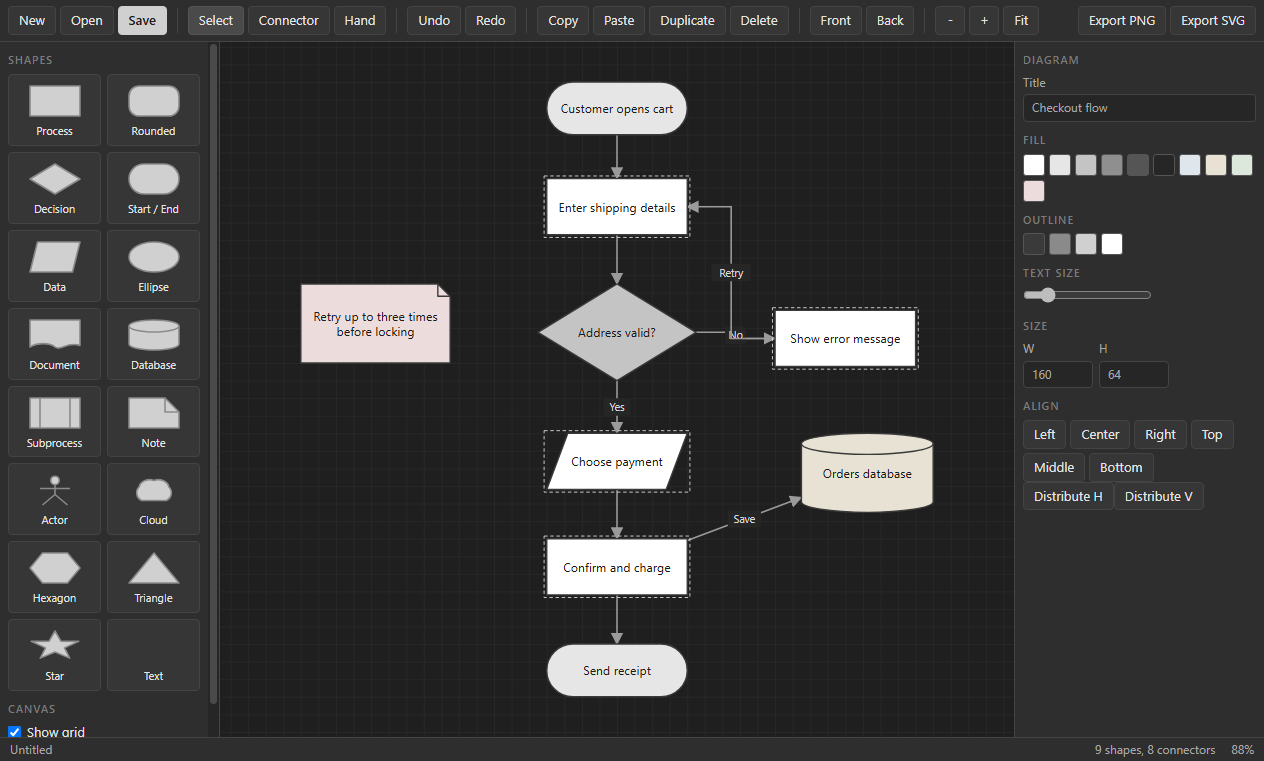
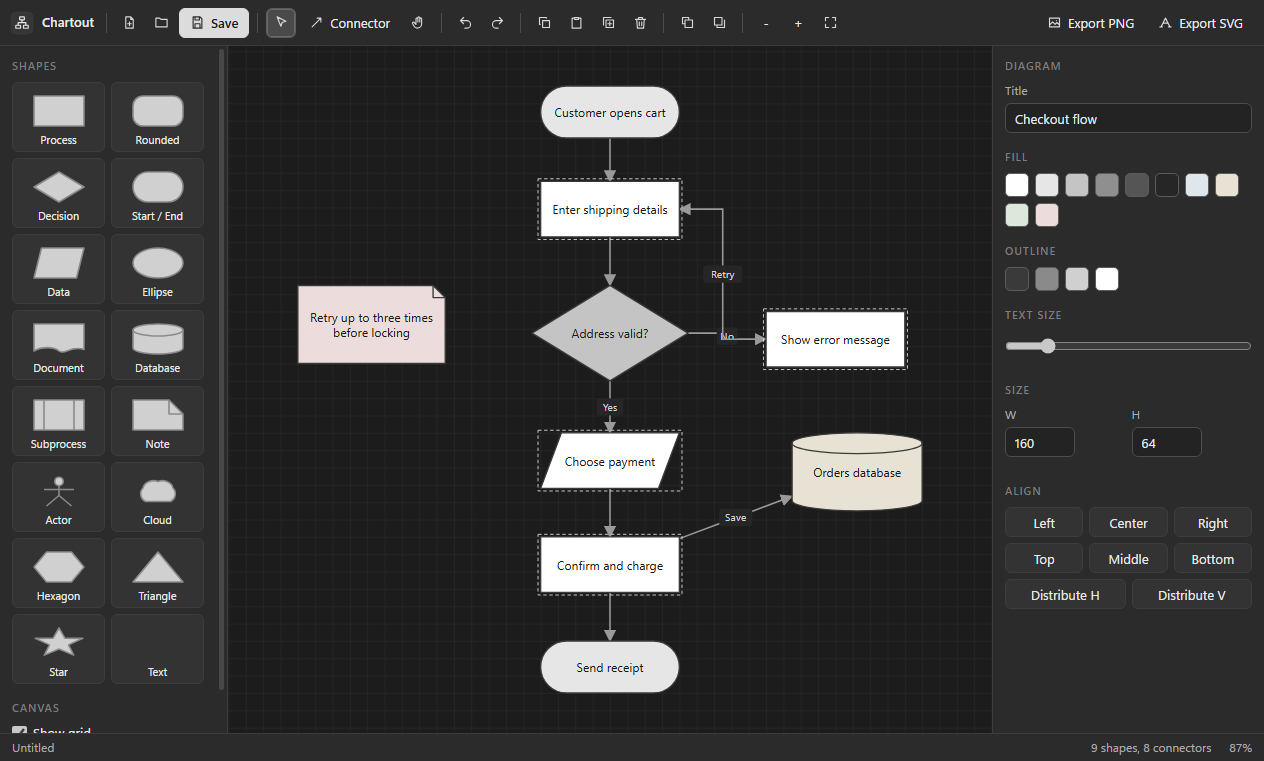
Chartout 1.0.3: refreshed interface
Refreshed interface: line icons on every toolbar button, the app mark in the top bar, consistent control sizes and spacing, tidier side panels, and a toolbar that adapts to smaller windows. Also includes layout fixes and a fuller guide on the project page.

diff --git a/renderer/lookout.css b/renderer/lookout.css
@@ -1,62 +1,119 @@
-/* Lookout gray UI kit: flat, no glow, no gradients, no hue. */
+/* Lookout gray UI kit v2: flat, calm, no hue. Shared by every Lookout app. */
 :root{
-  --bg:#262626; --bg-2:#2e2e2e; --bg-3:#363636; --line:#444; --line-2:#555;
-  --text:#e4e4e4; --text-2:#a8a8a8; --text-3:#7c7c7c;
-  --accent:#d0d0d0; --accent-ink:#1c1c1c; --focus:#9a9a9a;
-  --radius:4px; --font:"Segoe UI",system-ui,-apple-system,sans-serif; --mono:Consolas,"Cascadia Mono",monospace;
+  --bg:#232323; --bg-2:#2b2b2b; --bg-3:#333333; --bg-4:#3b3b3b; --stage:#1c1c1c;
+  --line:#3d3d3d; --line-2:#4d4d4d; --line-3:#5c5c5c;
+  --text:#e8e8e8; --text-2:#ababab; --text-3:#7d7d7d;
+  --accent:#dcdcdc; --accent-ink:#1b1b1b; --focus:#a0a0a0;
+  --radius:6px; --h:30px;
+  --font:"Segoe UI Variable Text","Segoe UI",system-ui,-apple-system,sans-serif; --mono:Consolas,"Cascadia Mono",monospace;
 }
 *{box-sizing:border-box;margin:0;padding:0}
 html,body{height:100%;background:var(--bg);color:var(--text);font:13px/1.45 var(--font);overflow:hidden;user-select:none;-webkit-font-smoothing:antialiased}
 button,input,select,textarea{font:inherit;color:inherit}
 .app{display:grid;grid-template-rows:auto 1fr auto;height:100vh}
-.toolbar{display:flex;align-items:center;gap:4px;padding:6px 8px;background:var(--bg-2);border-bottom:1px solid var(--line);flex-wrap:wrap}
-.toolbar .sep{width:1px;align-self:stretch;background:var(--line);margin:2px 6px}
-.toolbar .grow{flex:1}
-.btn{background:var(--bg-3);border:1px solid var(--line);border-radius:var(--radius);padding:4px 10px;cursor:pointer;white-space:nowrap}
-.btn:hover{background:#404040;border-color:var(--line-2)}
+
+/* ---------- toolbar ---------- */
+.toolbar{display:flex;align-items:center;gap:2px;padding:7px 10px;min-height:46px;background:var(--bg-2);border-bottom:1px solid var(--line);flex-wrap:nowrap;overflow-x:auto;overflow-y:hidden;scrollbar-width:none}
+.toolbar::-webkit-scrollbar{height:0}
+.toolbar>*{flex-shrink:0}
+.toolbar .sep{width:1px;height:20px;align-self:center;background:var(--line-2);margin:0 6px}
+.toolbar .grow{flex:1 1 auto;min-width:8px}
+.toolbar input[type=text],.toolbar input[type=search]{width:170px}
+.brand{display:flex;align-items:center;gap:8px;padding-right:6px;margin-right:4px;font-weight:600;font-size:13px;color:var(--text)}
+.brand img{width:24px;height:24px;border-radius:6px;display:block}
+.brand+.sep{margin-left:0}
+
+/* ---------- buttons ---------- */
+.btn{display:inline-flex;align-items:center;justify-content:center;gap:6px;height:var(--h);padding:0 10px;background:var(--bg-3);border:1px solid var(--line);border-radius:var(--radius);cursor:pointer;white-space:nowrap;line-height:1;transition:background .08s,border-color .08s}
+.btn:hover{background:var(--bg-4);border-color:var(--line-2)}
 .btn:active{background:#2a2a2a}
-.btn:focus-visible,input:focus-visible,select:focus-visible,textarea:focus-visible,[tabindex]:focus-visible{outline:1px solid var(--focus);outline-offset:1px}
+.btn:focus-visible,input:focus-visible,select:focus-visible,textarea:focus-visible,[tabindex]:focus-visible{outline:2px solid var(--focus);outline-offset:1px}
 .btn.primary{background:var(--accent);color:var(--accent-ink);border-color:var(--accent);font-weight:600}
-.btn.primary:hover{background:#e0e0e0}
-.btn.on{background:#4a4a4a;border-color:var(--line-2)}
-.btn[disabled]{opacity:.4;pointer-events:none}
-.btn.icon{padding:4px 8px;min-width:30px;text-align:center}
-input[type=text],input[type=number],input[type=search],select,textarea{background:var(--bg);border:1px solid var(--line);border-radius:var(--radius);padding:4px 8px;user-select:text}
-input[type=range]{accent-color:#bdbdbd}
-input[type=color]{border:1px solid var(--line);background:var(--bg);width:28px;height:24px;padding:1px;border-radius:var(--radius)}
-label.field{display:flex;flex-direction:column;gap:3px;color:var(--text-2);font-size:12px}
-.main{display:flex;min-height:0}
-.sidebar{width:220px;background:var(--bg-2);border-right:1px solid var(--line);overflow:auto;padding:8px;flex-shrink:0}
-.sidebar.right{border-right:0;border-left:1px solid var(--line);width:250px}
-.sidebar h3,.panel-title{font-size:11px;text-transform:uppercase;letter-spacing:.08em;color:var(--text-3);margin:10px 0 6px;font-weight:600}
+.btn.primary:hover{background:#ececec;border-color:#ececec}
+.btn.on{background:#4a4a4a;border-color:var(--line-3);box-shadow:inset 0 0 0 1px #6a6a6a}
+.btn[disabled]{opacity:.38;pointer-events:none}
+.btn.icon{padding:0;width:var(--h);min-width:var(--h)}
+.btn .ic{width:15px;height:15px;flex-shrink:0;display:block;opacity:.92}
+.toolbar .btn:not(.primary):not(.on){background:transparent;border-color:transparent}
+.toolbar .btn:not(.primary):not(.on):hover{background:var(--bg-4);border-color:var(--line-2)}
+
+.toolbar.c1 .btn.minor:not(.primary):has(> svg.ic),.toolbar.c2 .btn:not(.primary):has(> svg.ic),.toolbar.c3 .btn:has(> svg.ic){font-size:0;gap:0;width:var(--h);padding:0}
+.toolbar.c2 .brand span{display:none}
+.toolbar.c2 input[type=text],.toolbar.c2 input[type=search]{width:120px}
+
+/* ---------- fields ---------- */
+input[type=text],input[type=number],input[type=search],input[type=date],select,textarea{background:var(--bg);border:1px solid var(--line-2);border-radius:var(--radius);padding:0 9px;height:var(--h);user-select:text;min-width:0}
+textarea{height:auto;padding:7px 9px;resize:vertical;line-height:1.45}
+select{padding-right:6px;cursor:pointer}
+input:hover,select:hover,textarea:hover{border-color:var(--line-3)}
+input[type=range]{accent-color:#c8c8c8;height:var(--h)}
+input[type=checkbox]{accent-color:#c8c8c8;width:15px;height:15px;cursor:pointer}
+input[type=color]{border:1px solid var(--line-2);background:var(--bg);width:30px;height:var(--h);padding:2px;border-radius:var(--radius)}
+label.field{display:flex;flex-direction:column;gap:4px;color:var(--text-2);font-size:12px}
+label.field>input,label.field>select,label.field>textarea{width:100%;color:var(--text);font-size:13px}
+
+/* ---------- layout ---------- */
+.main{display:flex;min-height:0;min-width:0}
+.sidebar{width:228px;background:var(--bg-2);border-right:1px solid var(--line);overflow:auto;padding:10px 12px 14px;flex-shrink:0}
+.sidebar.right{border-right:0;border-left:1px solid var(--line);width:272px}
+.sidebar h3,.panel-title{font-size:11px;text-transform:uppercase;letter-spacing:.08em;color:var(--text-3);margin:16px 0 8px;font-weight:600}
 .sidebar h3:first-child{margin-top:2px}
-.stage{flex:1;min-width:0;min-height:0;position:relative;background:#1f1f1f;overflow:auto}
-.status{display:flex;gap:16px;align-items:center;padding:3px 10px;background:var(--bg-2);border-top:1px solid var(--line);color:var(--text-2);font-size:12px}
+.sidebar input[type=text],.sidebar input[type=search],.sidebar select,.sidebar textarea{width:100%}
+.sidebar .row{flex-wrap:wrap}
+.sidebar .row>.btn{flex:1 1 auto}
+.sidebar .row>label.field{flex:1 1 0;min-width:0}
+.sidebar label.field{margin-bottom:10px}
+.sidebar .btn{width:auto}
+.sidebar>.btn{width:100%;margin-bottom:6px}
+.stage{flex:1;min-width:0;min-height:0;position:relative;background:var(--stage);overflow:auto}
+.status{display:flex;gap:18px;align-items:center;height:28px;padding:0 12px;background:var(--bg-2);border-top:1px solid var(--line);color:var(--text-2);font-size:12px;white-space:nowrap;overflow:hidden}
 .status .grow{flex:1}
 .list{display:flex;flex-direction:column;gap:2px}
-.list .item{padding:5px 8px;border-radius:var(--radius);cursor:pointer;border:1px solid transparent;display:flex;gap:6px;align-items:center}
+.list .item{padding:6px 8px;border-radius:var(--radius);cursor:pointer;border:1px solid transparent;display:flex;gap:6px;align-items:center;min-height:30px}
 .list .item:hover{background:var(--bg-3)}
-.list .item.sel{background:#444;border-color:var(--line-2)}
+.list .item.sel{background:var(--bg-4);border-color:var(--line-2)}
 .row{display:flex;gap:6px;align-items:center}
+.grow{flex:1 1 auto;min-width:0}
+.brow{display:grid;grid-template-columns:1fr 1fr;gap:6px;margin-bottom:6px}
+.brow>.btn{justify-content:flex-start}
+.frow{display:flex;align-items:center;gap:8px;margin-bottom:8px;color:var(--text-2)}
+.frow>input[type=text],.frow>input[type=number]{flex:1;color:var(--text)}
+.frow>span:first-child{min-width:44px}
+.frow>select{flex:1;min-width:0}
+.sidebar input[type=range]{width:100%}
+.sidebar .swatches{margin-bottom:10px}
+.list .item .btn{height:24px!important;width:26px!important;padding:0!important;font-size:0!important;gap:0;background:transparent;border-color:transparent;opacity:.55}
+.list .item:hover .btn,.list .item.sel .btn{opacity:1}
+.list .item .btn:hover{background:var(--bg-4);border-color:var(--line-2)}
 .col{display:flex;flex-direction:column;gap:6px}
 .muted{color:var(--text-2)}
-.empty{position:absolute;inset:0;display:flex;flex-direction:column;align-items:center;justify-content:center;gap:10px;color:var(--text-3);text-align:center;padding:20px}
-.empty .big{font-size:18px;color:var(--text-2)}
-.modal-back{position:fixed;inset:0;background:rgba(0,0,0,.55);display:flex;align-items:center;justify-content:center;z-index:50}
-.modal{background:var(--bg-2);border:1px solid var(--line-2);border-radius:6px;min-width:340px;max-width:80vw;max-height:85vh;overflow:auto;padding:16px;display:flex;flex-direction:column;gap:12px}
-.modal h2{font-size:15px;font-weight:600}
-.toast{position:fixed;left:50%;bottom:34px;transform:translateX(-50%);background:var(--bg-3);border:1px solid var(--line-2);padding:7px 14px;border-radius:var(--radius);z-index:60}
-.progress{height:6px;background:var(--bg);border:1px solid var(--line);border-radius:3px;overflow:hidden}
-.progress>i{display:block;height:100%;background:var(--accent);width:0}
-table.grid{border-collapse:collapse;width:100%}
-table.grid th,table.grid td{border:1px solid var(--line);padding:4px 8px;text-align:left}
-table.grid th{background:var(--bg-2);color:var(--text-2);font-weight:600}
-::-webkit-scrollbar{width:11px;height:11px}
-::-webkit-scrollbar-thumb{background:#4a4a4a;border:2px solid var(--bg);border-radius:6px}
-::-webkit-scrollbar-track{background:var(--bg)}
-.swatches{display:flex;flex-wrap:wrap;gap:4px}
-.swatches button{width:22px;height:22px;border:1px solid var(--line-2);border-radius:3px;cursor:pointer;padding:0}
-.swatches button.on{outline:2px solid var(--accent);outline-offset:1px}
-.progress>div{display:block;height:100%;background:var(--accent)}
-table.grid tr.sel td{background:#3a3a3a}
+.empty{position:absolute;inset:0;display:flex;flex-direction:column;align-items:center;justify-content:center;gap:12px;color:var(--text-3);text-align:center;padding:24px}
+.empty .big{font-size:18px;color:var(--text-2);font-weight:600}
+
+/* ---------- overlays ---------- */
+.modal-back{position:fixed;inset:0;background:rgba(0,0,0,.6);display:flex;align-items:center;justify-content:center;z-index:50}
+.modal{background:var(--bg-2);border:1px solid var(--line-2);border-radius:10px;min-width:360px;max-width:80vw;max-height:85vh;overflow:auto;padding:20px;display:flex;flex-direction:column;gap:14px;box-shadow:0 18px 50px rgba(0,0,0,.5)}
+.modal h2{font-size:16px;font-weight:600}
+.toast{position:fixed;left:50%;bottom:40px;transform:translateX(-50%);background:var(--bg-4);border:1px solid var(--line-3);padding:9px 16px;border-radius:8px;z-index:60;box-shadow:0 8px 24px rgba(0,0,0,.4)}
+.progress{height:6px;background:var(--bg);border:1px solid var(--line);border-radius:4px;overflow:hidden}
+.progress>i,.progress>div{display:block;height:100%;background:var(--accent);width:0}
+
+/* ---------- tables ---------- */
+table.grid{border-collapse:separate;border-spacing:0;width:100%}
+table.grid th,table.grid td{border-bottom:1px solid var(--line);padding:0 12px;height:38px;text-align:left;vertical-align:middle}
+table.grid th{background:var(--bg-2);color:var(--text-2);font-weight:600;font-size:12px;position:sticky;top:0;z-index:1;height:34px}
+table.grid tbody tr:hover td{background:#262626}
+table.grid tr.sel td{background:#353535}
 table.grid tbody tr{cursor:default}
+table.grid td .btn{height:26px;margin-left:8px;vertical-align:middle}
+table.grid td{white-space:nowrap}
+
+/* ---------- misc ---------- */
+::-webkit-scrollbar{width:11px;height:11px}
+::-webkit-scrollbar-thumb{background:#474747;border:3px solid transparent;background-clip:padding-box;border-radius:8px}
+::-webkit-scrollbar-thumb:hover{background:#5a5a5a;background-clip:padding-box;border:3px solid transparent}
+::-webkit-scrollbar-track,::-webkit-scrollbar-corner{background:transparent}
+.swatches{display:flex;flex-wrap:wrap;gap:6px}
+.swatches button{width:24px;height:24px;border:1px solid var(--line-3);border-radius:5px;cursor:pointer;padding:0}
+.swatches button.on{outline:2px solid var(--accent);outline-offset:2px}
+kbd{font-family:var(--mono);font-size:11px;background:var(--bg-3);border:1px solid var(--line-2);border-bottom-width:2px;border-radius:4px;padding:0 5px}

diff --git a/renderer/kit.js b/renderer/kit.js
@@ -1,0 +1,137 @@
+// Lookout UI kit: adds the app mark to the toolbar and monochrome line icons to buttons.
+// Purely visual. Buttons keep their text, so nothing else changes.
+(function () {
+  'use strict';
+  const NS = 'http://www.w3.org/2000/svg';
+  const P = {
+    plus: 'M12 5v14M5 12h14',
+    file: 'M14 3H6v18h12V7zM14 3v4h4M12 11v6M9 14h6',
+    folder: 'M3 7V5h6l2 2h10v12H3z',
+    save: 'M5 3h11l3 3v15H5zM8 3v5h7V3M8 21v-7h8v7',
+    saveas: 'M5 3h11l3 3v6M5 3v18h7M8 3v5h7V3M15 21l6-6-2-2-6 6v2z',
+    undo: 'M9 14L4 9l5-5M4 9h10a6 6 0 010 12h-3',
+    redo: 'M15 14l5-5-5-5M20 9H10a6 6 0 000 12h3',
+    trash: 'M4 7h16M10 11v6M14 11v6M6 7l1 14h10l1-14M9 7V4h6v3',
+    copy: 'M9 9h11v11H9zM5 15H4V4h11v1',
+    paste: 'M9 4h6v3H9zM8 5H5v16h14V5h-3',
+    dup: 'M8 8h12v12H8zM4 16V4h12M14 11v6M11 14h6',
+    download: 'M12 4v11M7 10l5 5 5-5M5 20h14',
+    fit: 'M4 9V4h5M15 4h5v5M20 15v5h-5M9 20H4v-5',
+    play: 'M7 4l13 8-13 8z',
+    stop: 'M6 6h12v12H6z',
+    pause: 'M7 5h3v14H7zM14 5h3v14h-3z',
+    rec: 'M12 5a7 7 0 100 14 7 7 0 000-14z',
+    scissors: 'M6 9a3 3 0 100-6 3 3 0 000 6zM6 21a3 3 0 100-6 3 3 0 000 6zM8.2 7.8L20 19M8.2 16.2L20 5',
+    pointer: 'M5 3l14 7-6 2-2 6z',
+    hand: 'M8 13V6a1.5 1.5 0 013 0v5M11 11V4.5a1.5 1.5 0 013 0V11M14 11V6a1.5 1.5 0 013 0v8a7 7 0 01-7 7 6 6 0 01-5-3l-2.5-4.5a1.5 1.5 0 012.6-1.5L8 15',
+    connector: 'M5 19L19 5M13 5h6v6',
+    frame: 'M7 3v18M17 3v18M3 7h18M3 17h18',
+    rect: 'M4 6h16v12H4z',
+    ellipse: 'M12 5c4.4 0 8 3.1 8 7s-3.6 7-8 7-8-3.1-8-7 3.6-7 8-7z',
+    line: 'M5 19L19 5',
+    text: 'M5 6V4h14v2M12 4v16M9 20h6',
+    highlight: 'M14 4l6 6-8 8H6v-6zM4 21h16',
+    pen: 'M4 20l4-1 11-11-3-3L5 16zM14 7l3 3',
+    redact: 'M4 8h16v8H4z',
+    sign: 'M3 17c3-6 5-9 7-9 3 0-2 9 1 9 2 0 3-3 5-3s1 3 5 3M3 21h18',
+    eraser: 'M8 20l-4-4 10-10 6 6-10 8zM12 20h8',
+    search: 'M11 4a7 7 0 100 14 7 7 0 000-14zM16 16l5 5',
+    list: 'M9 6h11M9 12h11M9 18h11M4 6h.01M4 12h.01M4 18h.01',
+    child: 'M5 4v8a3 3 0 003 3h11M15 11l4 4-4 4',
+    sibling: 'M5 6h14M5 12h14M12 15v6M9 18h6',
+    collapse: 'M6 9l6 6 6-6',
+    expand: 'M7 14l5-5 5 5',
+    calendar: 'M4 6h16v14H4zM4 10h16M8 3v5M16 3v5',
+    diamond: 'M12 3l9 9-9 9-9-9z',
+    up: 'M12 19V5M6 11l6-6 6 6',
+    down: 'M12 5v14M6 13l6 6 6-6',
+    refresh: 'M20 11a8 8 0 10-2.3 5.7M20 4v7h-7',
+    check: 'M4 12l5 5L20 6',
+    convert: 'M4 8h13M13 4l4 4-4 4M20 16H7M11 12l-4 4 4 4',
+    eye: 'M2 12s4-7 10-7 10 7 10 7-4 7-10 7S2 12 2 12zM12 9a3 3 0 100 6 3 3 0 000-6z',
+    info: 'M12 3a9 9 0 100 18 9 9 0 000-18zM12 11v6M12 7.5h.01',
+    front: 'M8 8h12v12H8zM4 4h10v3M4 4v10h3',
+    back: 'M4 4h12v12H4zM20 8v12H8v-4',
+    merge: 'M6 3v6a6 6 0 006 6h6M15 12l3 3-3 3M6 21v-4',
+    rotl: 'M4 10a8 8 0 112 6M4 4v6h6',
+    rotr: 'M20 10a8 8 0 10-2 6M20 4v6h-6',
+    blank: 'M6 3h12v18H6z',
+    extract: 'M14 3H6v18h12V7zM14 3v4h4M12 10v7M9 14l3 3 3-3',
+    mic: 'M12 3a3 3 0 00-3 3v6a3 3 0 006 0V6a3 3 0 00-3-3zM6 11a6 6 0 0012 0M12 17v4',
+    clear: 'M6 6l12 12M18 6L6 18',
+    gaps: 'M3 6v12M21 6v12M7 12h10M10 9l-3 3 3 3M14 9l3 3-3 3',
+    title: 'M4 5h16v14H4zM8 9h8M12 9v7',
+    dashed: 'M4 12h3M10 12h4M17 12h3',
+    arrow: 'M4 12h15M14 7l5 5-5 5',
+    elbow: 'M4 6h8v12h8',
+    label: 'M3 12l6-7h12v14H9zM8 12h.01',
+    image: 'M4 5h16v14H4zM4 16l5-5 4 4 3-3 4 4M15 9h.01',
+    vector: 'M5 19L12 5l7 14M8 13h8M3 19h4M17 19h4',
+    table: 'M4 5h16v14H4zM4 10h16M4 15h16M10 5v14',
+    lock: 'M6 11h12v9H6zM8 11V8a4 4 0 018 0v3',
+    unlock: 'M6 11h12v9H6zM8 11V8a4 4 0 017.5-2',
+    eyeoff: 'M3 3l18 18M10.6 6.1A10 10 0 0112 6c6 0 10 6 10 6a17 17 0 01-3 3.6M6.6 6.6C3.8 8.3 2 12 2 12s4 7 10 7a9.7 9.7 0 004.4-1',
+  };
+  const MAP = {
+    'New': 'file', 'Open': 'folder', 'Open project': 'folder', 'Open file': 'folder', 'Save': 'save', 'Save project': 'save', 'Save as': 'saveas',
+    'Undo': 'undo', 'Redo': 'redo', 'Delete': 'trash', 'Delete clip': 'trash', 'Remove selected': 'trash', 'Copy': 'copy', 'Paste': 'paste', 'Duplicate': 'dup',
+    'Export PNG': 'image', 'Export SVG': 'vector', 'Export CSV': 'table', 'Export': 'download', 'Export page as PNG': 'download', 'Extract all text': 'text',
+    'Fit': 'fit', 'Play': 'play', 'Stop': 'stop', 'Pause': 'pause', 'Resume': 'play', 'Record': 'rec', 'Split': 'scissors', 'Split here': 'scissors',
+    'Select': 'pointer', 'Move': 'pointer', 'Hand': 'hand', 'Connector': 'connector', 'Frame': 'frame', 'Rectangle': 'rect', 'Box': 'rect', 'Ellipse': 'ellipse', 'Line': 'line', 'Text': 'text',
+    'Highlight': 'highlight', 'Pen': 'pen', 'Redact': 'redact', 'Sign': 'sign', 'Erase': 'eraser', 'Preview': 'eye', 'Outline': 'list',
+    'Add child': 'child', 'Add sibling': 'sibling', 'Edit': 'pen', 'Collapse': 'collapse', 'Expand all': 'expand', 'Today': 'calendar',
+    'Add task': 'plus', 'Add milestone': 'diamond', 'Move up': 'up', 'Move down': 'down', 'Up': 'up', 'Down': 'down',
+    'Import media': 'plus', 'Add files': 'plus', 'Output folder': 'folder', 'Convert all': 'convert', 'Clear finished': 'clear', 'Show': 'folder', 'Show in folder': 'folder',
+    'Check file': 'check', 'Repair to new file': 'download', 'Refresh sources': 'refresh', 'Start recording': 'rec', 'Stop and review': 'stop', 'New recording': 'rec',
+    'Check for updates': 'refresh', 'Info': 'info', 'Merge': 'merge', 'Rotate L': 'rotl', 'Rotate R': 'rotr', 'Blank': 'blank', 'Extract': 'extract',
+    'Front': 'front', 'Back': 'back', 'Close gaps': 'gaps', 'Title text': 'title', 'Dashed': 'dashed', 'Arrow on/off': 'arrow', 'Straight / Elbow': 'elbow', 'Edit label': 'label',
+    'Cut': 'scissors', 'Trim to selection': 'fit', 'Locate missing files': 'search',
+  };
+  const LMAP = { 'Hide': 'eye', 'Show': 'eyeoff', 'Lock': 'unlock', 'Unlock': 'lock' };
+  function icon(name) {
+    const s = document.createElementNS(NS, 'svg');
+    s.setAttribute('viewBox', '0 0 24 24'); s.setAttribute('class', 'ic'); s.setAttribute('aria-hidden', 'true');
+    s.setAttribute('fill', 'none'); s.setAttribute('stroke', 'currentColor'); s.setAttribute('stroke-width', '1.8');
+    s.setAttribute('stroke-linecap', 'round'); s.setAttribute('stroke-linejoin', 'round');
+    const p = document.createElementNS(NS, 'path'); p.setAttribute('d', P[name]); s.append(p);
+    return s;
+  }
+  function decorate(b) {
+    if (b.tagName !== 'BUTTON' || !b.classList.contains('btn')) return;
+    const label = (b.textContent || '').trim();
+    const name = (b.closest('.list') && LMAP[label]) || MAP[label];
+    const cur = b.querySelector(':scope > svg.ic');
+    if (cur && cur.dataset.for === label) return;
+    if (cur) cur.remove();
+    if (!name) return;
+    const s = icon(name); s.dataset.for = label; b.prepend(s);
+    if (!b.title) b.title = label;
+  }
+  function brand(bar) {
+    if (!bar || bar.querySelector(':scope > .brand') || (document.title && (bar.textContent || '').includes(document.title))) return;
+    const name = document.title || '';
+    const d = document.createElement('div'); d.className = 'brand';
+    const img = document.createElement('img'); img.src = 'brand.svg'; img.alt = '';
+    const t = document.createElement('span'); t.textContent = name;
+    d.append(img, t);
+    const sep = document.createElement('span'); sep.className = 'sep';
+    bar.prepend(d, sep);
+  }
+  const MINOR = new Set(['New', 'Open', 'Undo', 'Redo', 'Copy', 'Paste', 'Duplicate', 'Delete', 'Front', 'Back', 'Fit', 'Hand', 'Merge', 'Move up', 'Move down', 'Today', 'Cut', 'Dashed', 'Arrow on/off', 'Straight / Elbow', 'Edit label', 'Output folder', 'Remove selected', 'Clear finished', 'Refresh sources', 'Stop', 'Collapse', 'Expand all', 'Select', 'Move']);
+  function fitBar(bar) {
+    bar.classList.remove('c1', 'c2', 'c3');
+    bar.querySelectorAll(':scope > .btn').forEach((b) => b.classList.toggle('minor', MINOR.has((b.textContent || '').trim())));
+    for (const c of ['c1', 'c2', 'c3']) { if (bar.scrollWidth <= bar.clientWidth + 1) break; bar.classList.add(c); }
+  }
+  window.addEventListener('resize', () => { const bar = document.querySelector('.app > .toolbar'); if (bar) fitBar(bar); });
+  let queued = false;
+  function sweep() {
+    queued = false;
+    document.querySelectorAll('.btn').forEach(decorate);
+    const bar = document.querySelector('.app > .toolbar');
+    if (bar && bar.children.length) { brand(bar); fitBar(bar); }
+  }
+  const mo = new MutationObserver(() => { if (!queued) { queued = true; requestAnimationFrame(sweep); } });
+  function start() { mo.observe(document.body, { childList: true, subtree: true, characterData: true }); sweep(); }
+  if (document.readyState === 'loading') document.addEventListener('DOMContentLoaded', start); else start();
+})();

diff --git a/renderer/app.js b/renderer/app.js
@@ -65,7 +65,7 @@ const pal = h('div', { style: 'display:grid;grid-template-columns:1fr 1fr;gap:6p
 SHAPES.forEach(([k, n]) => {
   const prev = sv('svg', { viewBox: '0 0 60 40', width: 60, height: 40 });
   prev.append(shapeEl({ type: k, x: 5, y: 5, w: 50, h: 30, fill: '#d0d0d0', stroke: '#8a8a8a', text: '', fs: 10 }, true));
-  const c = h('div', { class: 'btn', style: 'display:flex;flex-direction:column;align-items:center;gap:2px;padding:6px 2px;font-size:11px', draggable: 'true', onclick: () => addShape(k) }, prev, h('span', { text: n }));
+  const c = h('div', { class: 'btn', style: 'display:flex;flex-direction:column;align-items:center;gap:3px;padding:8px 2px 6px;font-size:11px;height:auto', draggable: 'true', onclick: () => addShape(k) }, prev, h('span', { text: n }));
   c.addEventListener('dragstart', (e) => e.dataTransfer.setData('text/plain', 'shape:' + k));
   pal.append(c);
 });
@@ -225,7 +225,7 @@ function renderRight() {
     fs.addEventListener('pointerdown', commit);
     right.append(h('h3', { text: 'Text size' }), fs);
     right.append(h('h3', { text: 'Size' }), h('div', { class: 'row' }, numField('W', shapes[0].w, (v) => shapes.forEach((s) => (s.w = v))), numField('H', shapes[0].h, (v) => shapes.forEach((s) => (s.h = v)))));
-    right.append(h('h3', { text: 'Align' }), h('div', { class: 'ptools', style: 'display:flex;flex-wrap:wrap;gap:4px' }, ['Left', 'Center', 'Right', 'Top', 'Middle', 'Bottom'].map((a) => btn(a, () => align(a.toLowerCase())))), btn('Distribute H', () => distribute('x')), btn('Distribute V', () => distribute('y')));
+    right.append(h('h3', { text: 'Align' }), h('div', { class: 'ptools', style: 'display:grid;grid-template-columns:repeat(3,1fr);gap:6px' }, ['Left', 'Center', 'Right', 'Top', 'Middle', 'Bottom'].map((a) => btn(a, () => align(a.toLowerCase())))), h('div', { style: 'display:grid;grid-template-columns:1fr 1fr;gap:6px;margin-top:6px' }, btn('Distribute H', () => distribute('x')), btn('Distribute V', () => distribute('y'))));
   }
   if (edges.length) {
     right.append(h('h3', { text: 'Connector' }),

diff --git a/renderer/index.html b/renderer/index.html
@@ -10,6 +10,7 @@
 </head>
 <body>
 <div class="app" id="app"></div>
+<script src="kit.js"></script>
 <script src="app.js"></script>
 </body>
 </html>

diff --git a/README.md b/README.md
@@ -1,6 +1,6 @@
 <p align="center"><img src="screenshots/banner.png" alt="Chartout" width="100%"></p>
 
-<p align="center"><b>Flowcharts and diagrams</b><br>Version 1.0.1 for Windows · Free · Offline · No account</p>
+<p align="center"><b>Flowcharts and diagrams</b><br>Version 1.0.3 for Windows · Free · Offline · No account</p>
 
 <p align="center"><a href="https://github.com/plawanpawin-byte/chartout/releases/latest"><b>Download Chartout</b></a> · <a href="https://github.com/plawanpawin-byte/Lookout">All Lookout apps</a></p>
 
@@ -11,6 +11,12 @@ Chartout is a diagram maker for flowcharts, org charts, process maps and quick s
 **Made for:** Anyone explaining a process or a structure: teams documenting workflows, students drawing algorithms, managers mapping reporting lines.
 
 ![Chartout](screenshots/01-flowchart.png)
+
+**On this page:** [Screenshots](#see-it-in-action) · [Interface](#the-interface) · [Features](#everything-it-can-do) · [How to use it](#how-to-use-it) · [Shortcuts](#keyboard-shortcuts) · [Formats](#files-and-formats) · [Privacy](#private-by-design) · [Install](#install) · [Questions](#questions)
+
+## What is new in 1.0.3
+
+A refreshed interface: every toolbar button now has a clear line icon, the app's mark sits at the top left, controls share one height and spacing, panels line up in tidy grids, and the toolbar keeps every button reachable on smaller windows by switching less important buttons to icons.
 
 ## See it in action
 
@@ -43,6 +49,12 @@ The same chart exported as a high-resolution image with a clean white background
 ![Another result: an org chart](screenshots/05-org-chart-output.png)
 
 Elbow connectors route neatly from parent to child, which makes organisation charts quick to build.
+
+## The interface
+
+- **Top bar:** file buttons, the Select, Connector and Hand tools, edit and arrange actions, zoom, and Export PNG / SVG.
+- **Left panel:** the shape library as large previews, plus canvas options such as the grid and snapping.
+- **Right panel:** the diagram title, or the fill, outline, text size, size and align controls of whatever is selected.
 
 ## Everything it can do
 
@@ -127,5 +139,15 @@ No fixed limit. Use Fit to see a large diagram at once.
 ## About Lookout
 
 Chartout belongs to the **[Lookout](https://github.com/plawanpawin-byte/Lookout)** family: ten small, private Windows apps for documents and media, all with the same calm grey look and the same promise that your files stay yours. Install and update them together with the [Lookout launcher](https://github.com/plawanpawin-byte/lookout-launcher).
+
+- **[Pageout](https://github.com/plawanpawin-byte/pageout)**: read, annotate and sign pdfs
+- **[Branchout](https://github.com/plawanpawin-byte/branchout)**: mind maps and outlines
+- **[Planout](https://github.com/plawanpawin-byte/planout)**: plans and gantt timelines
+- **[Frameout](https://github.com/plawanpawin-byte/frameout)**: screen design and prototypes
+- **[Cutout](https://github.com/plawanpawin-byte/cutout)**: video editing on a timeline
+- **[Shiftout](https://github.com/plawanpawin-byte/shiftout)**: convert and compress media
+- **[Castout](https://github.com/plawanpawin-byte/castout)**: record your screen
+- **[Mendout](https://github.com/plawanpawin-byte/mendout)**: repair damaged media
+- **[Tuneout](https://github.com/plawanpawin-byte/tuneout)**: record and edit audio
 
 Released under the MIT License.
